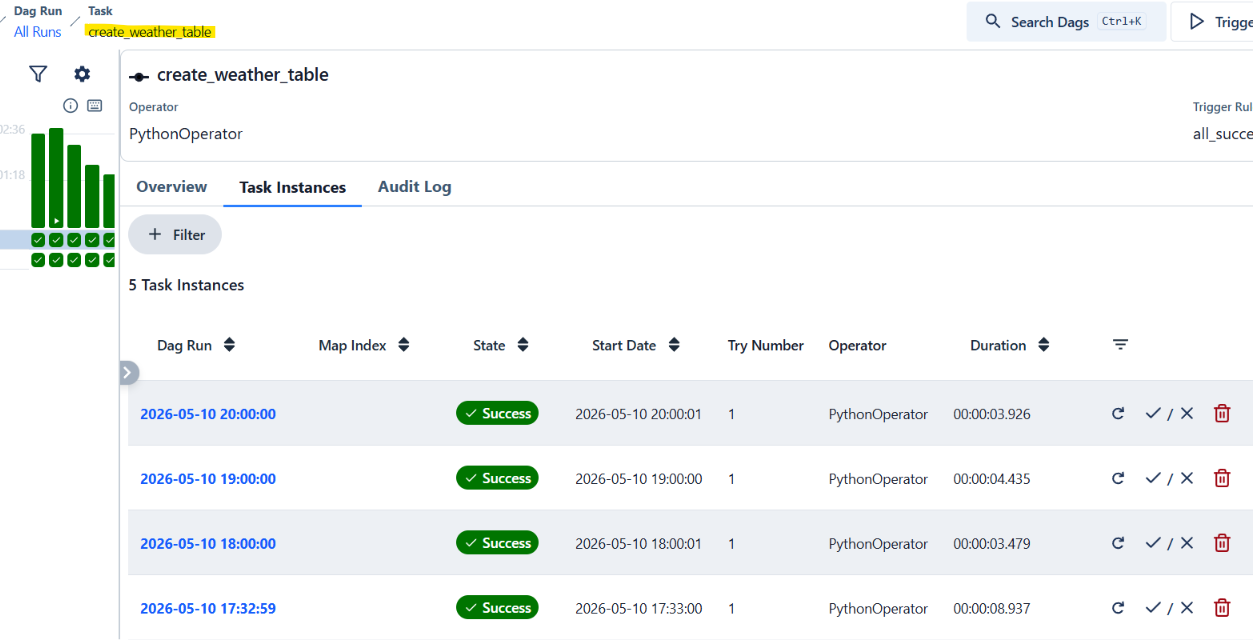
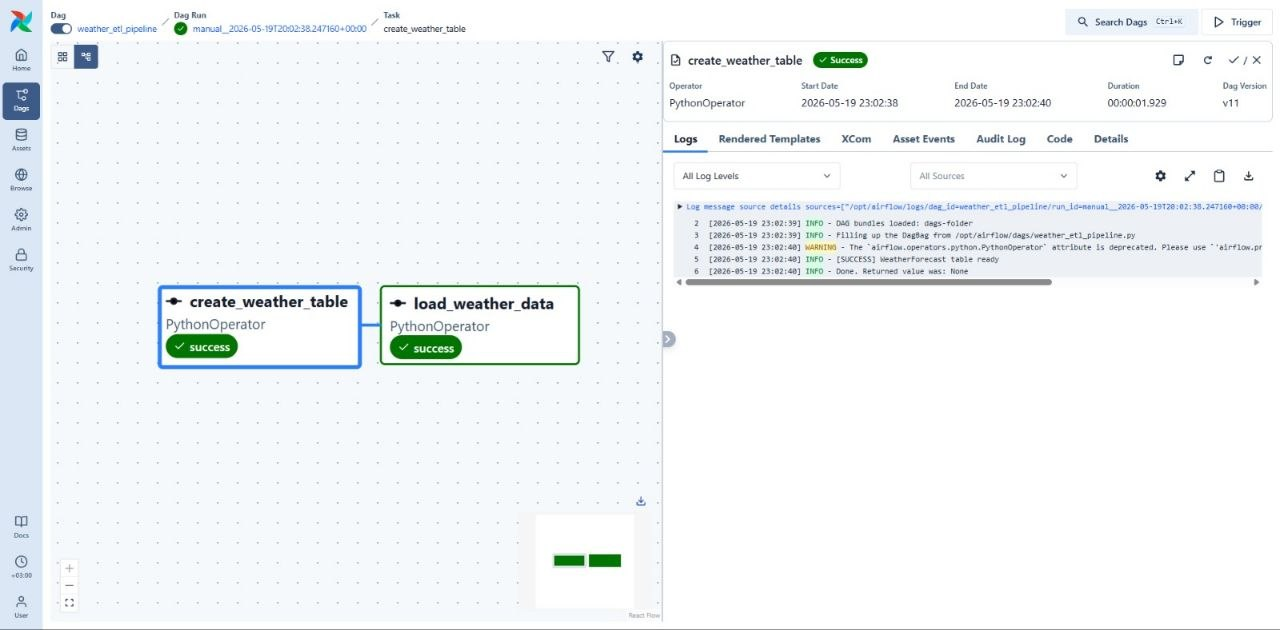
Fix broken image references and remap all imgs/ in README

diff --git a/README.md b/README.md
@@ -1,6 +1,6 @@
 # Weather ETL Pipeline for Egypt Governorates
 
-![Weather ETL Pipeline Dashboard](imgs/main-dashboard.png)
+![Weather ETL Pipeline Dashboard](imgs/main-dashboard.jpg)
 
 | Attribute  | Value                                  |
 |------------|----------------------------------------|
@@ -144,7 +144,9 @@ Unpause the `weather_etl_pipeline` DAG to start hourly runs.
 
 ### Task Flow
 
-![ETL Pipeline Flow](imgs/pipeline-etl-flow.png)
+![ETL Pipeline Flow](imgs/DAG-ETL-Pipeline.jpg)
+
+![Task Flow Graph](imgs/taskflow.jpg)
 
 ```
 create_weather_table >> load_weather_data
@@ -184,7 +186,7 @@ are logged and skipped; they do not stop the pipeline.
 
 ![Database Schema](imgs/database-schema.png)
 
-![WeatherForecast Table](imgs/weatherforecast-table.png)
+![WeatherForecast Table](imgs/task.jpg)
 
 ```sql
 use Weather_DataBase